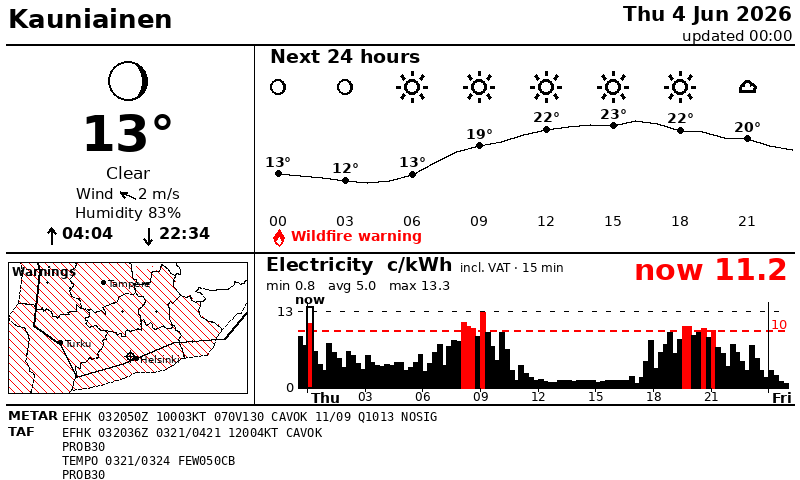
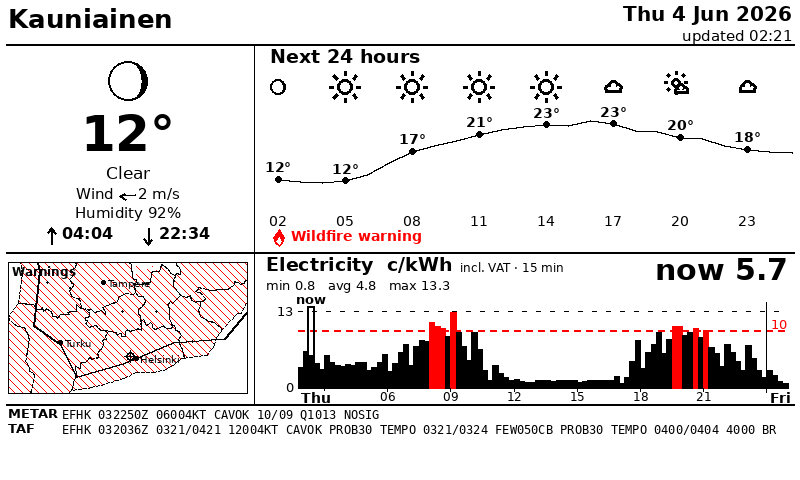
TAF: drop the feed's line breaks, word-wrap, and keep it off the bottom edge
aviation.py returns the TAF as one normalised string; render word-wraps it under
the single-line METAR. Raised the block and capped TAF at 3 wrapped lines so the
last row no longer runs past the 480px panel (bottom pixels were being clipped).

diff --git a/epaper/render.py b/epaper/render.py
@@ -423,18 +423,23 @@ def _aviation(d, av):
         return
     mono = font(config.FONT_MONO, 12)
     tx = 62                                   # mono text column (label-free)
-    y = top + 7
-    lh = 14
+    maxw = W - 8 - tx
+    y = top + 5
+    lh = 15
 
+    # METAR on one line
     text(d, (8, y), "METAR", lab)
-    text(d, (tx, y + 1), _fit(d, av.get("metar", ""), mono, W - 8 - tx), mono)
-    y += lh + 2
+    text(d, (tx, y + 1), _fit(d, av.get("metar", ""), mono, maxw), mono)
+    y += lh
 
-    taf = av.get("taf", [])
-    for i, ln in enumerate(taf[:config.AVIATION_TAF_LINES]):
+    # then the TAF, word-wrapped (the feed's own line breaks are dropped)
+    taf = av.get("taf", "")
+    if isinstance(taf, list):                 # backward-compat with old cache
+        taf = " ".join(taf)
+    for i, ln in enumerate(_wrap(d, taf, mono, maxw, config.AVIATION_TAF_LINES)):
         if i == 0:
             text(d, (8, y), "TAF", lab)
-        text(d, (tx, y + 1), _fit(d, ln, mono, W - 8 - tx), mono)
+        text(d, (tx, y + 1), ln, mono)
         y += lh
 
 
@@ -445,6 +450,26 @@ def _fit(d, s, fnt, maxw):
     while s and _bbox(d, s + "…", fnt)[2] > maxw:
         s = s[:-1]
     return s + "…"
+
+
+def _wrap(d, s, fnt, maxw, maxlines):
+    """Word-wrap s to maxw px, at most maxlines lines (last gets an ellipsis if
+    it overflows)."""
+    lines, cur = [], ""
+    for word in s.split():
+        trial = (cur + " " + word).strip()
+        if not cur or _bbox(d, trial, fnt)[2] <= maxw:
+            cur = trial
+        else:
+            lines.append(cur)
+            cur = word
+            if len(lines) >= maxlines:
+                break
+    if cur and len(lines) < maxlines:
+        lines.append(cur)
+    if len(lines) == maxlines and cur and lines[-1] != cur:
+        lines[-1] = _fit(d, lines[-1] + " …", fnt, maxw)
+    return lines[:maxlines]
 
 
 # ---------------------------------------------------------------------------

diff --git a/epaper/aviation.py b/epaper/aviation.py
@@ -25,25 +25,19 @@ def get_aviation(icao=None):
     if metar.upper().startswith("METAR "):
         metar = metar[6:]
 
-    taf_raw = _get("taf", icao).strip()
-    taf_lines = []
-    for ln in taf_raw.splitlines():
-        ln = ln.strip()
-        if ln:
-            taf_lines.append(ln)
-    # the first line may start with "TAF "; drop that token for compactness
-    if taf_lines and taf_lines[0].upper().startswith("TAF "):
-        taf_lines[0] = taf_lines[0][4:]
+    # collapse the source's line breaks into one normalised string; the renderer
+    # word-wraps it to the panel width (the raw feed breaks mid change-group).
+    taf = " ".join(_get("taf", icao).split())
+    if taf.upper().startswith("TAF "):
+        taf = taf[4:]
 
-    if not metar and not taf_lines:
+    if not metar and not taf:
         raise RuntimeError("no METAR/TAF for %s" % icao)
-    return {"icao": icao, "metar": metar, "taf": taf_lines}
+    return {"icao": icao, "metar": metar, "taf": taf}
 
 
 if __name__ == "__main__":
     a = get_aviation()
     print("ICAO:", a["icao"])
     print("METAR:", a["metar"])
-    print("TAF:")
-    for ln in a["taf"]:
-        print("   ", ln)
+    print("TAF:", a["taf"])

diff --git a/config.py b/config.py
@@ -49,7 +49,7 @@ DETAIL_HOURS = 24                    # hours shown in the detailed strip
 # Aviation weather (METAR/TAF) shown as raw text at the bottom of the panel
 # ---------------------------------------------------------------------------
 AVIATION_ICAO = "EFHK"               # Helsinki-Vantaa
-AVIATION_TAF_LINES = 4               # max TAF lines rendered
+AVIATION_TAF_LINES = 3               # max wrapped TAF lines (fits above bottom edge)
 
 # FMI official warnings (CAP feed). Filtered to LATITUDE/LONGITUDE by polygon.
 # The per-language feed file is chosen in epaper/i18n.py (ALERT_FEED).